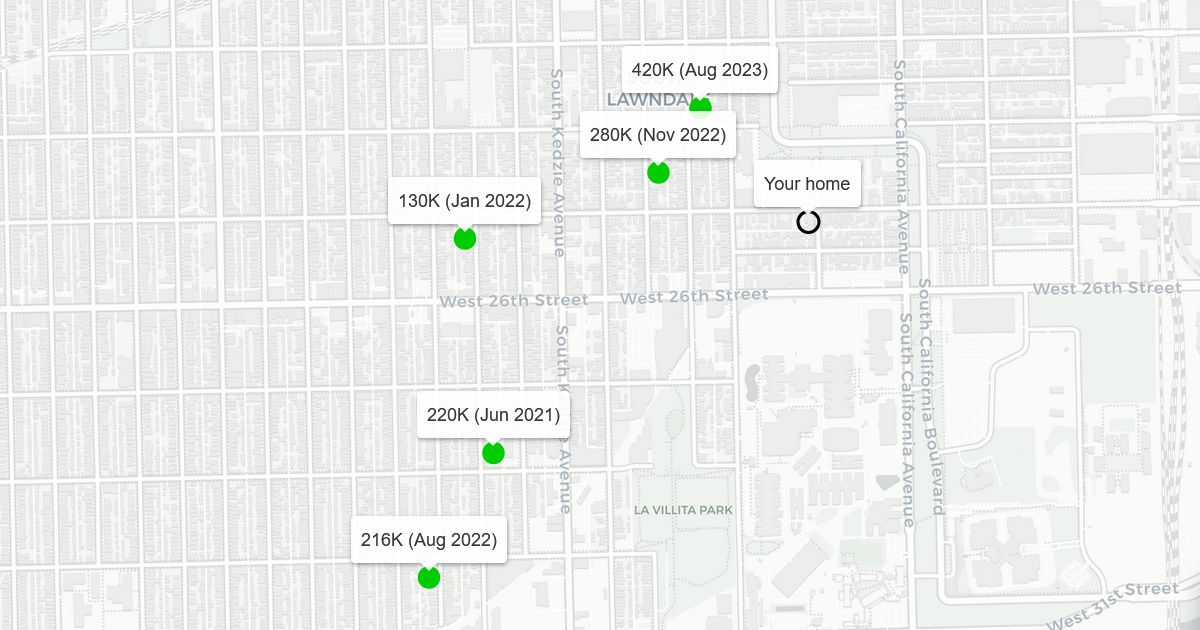
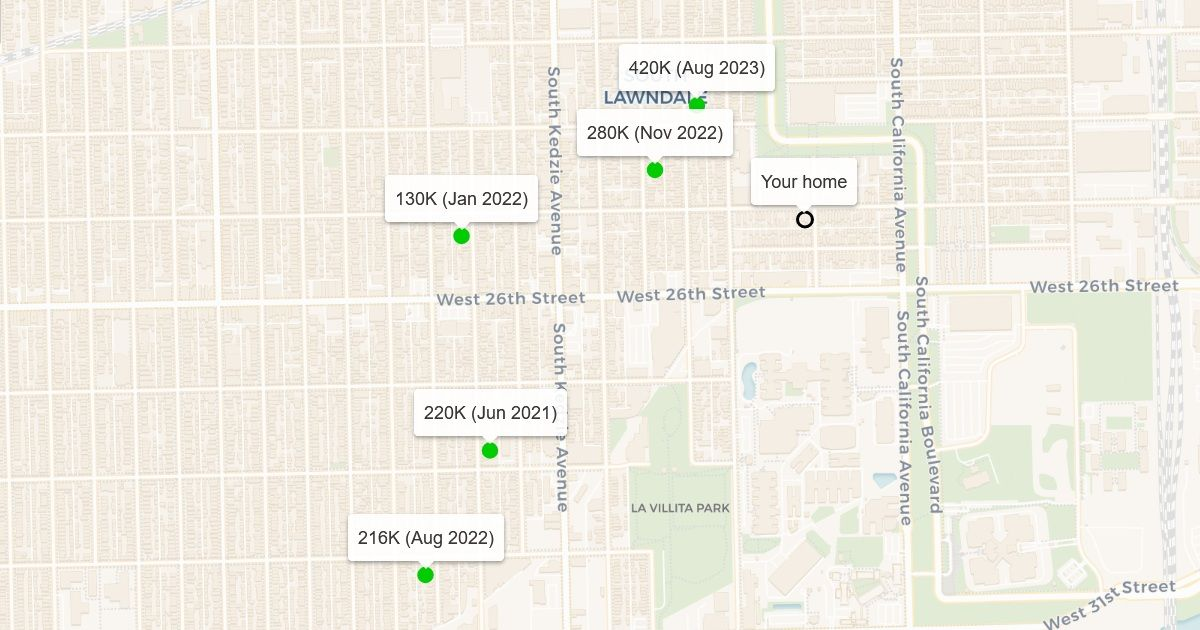
Small tweaks to link refs and basemap styles (#125)
This PR folds in a couple fixes for small bugs that we noticed while
testing prod reports:

- Changes the Carto basemap from Positron to Voyager for a more colorful
map that is closer to users' expectations of a typical web map
- Adds "Back to Search" buttons to error pages
- Changes link refs for the CCAO site to point to the new `.gov` domain

## Testing

I deployed all of the PINs that are listed in #116 to staging to confirm
that links and maps appear correctly in all possible versions of the
report. To test the error page, visit the root domain of the staging
site.

Changed region(s): [[0.0, 0.0, 1.0, 1.0], [0.9558, 0.7841, 0.9867, 0.8143], [0.6783, 0.7238, 0.7092, 0.754]]

diff --git a/hugo/layouts/report.html b/hugo/layouts/report.html
@@ -5,9 +5,6 @@
 
   {{ partial "head/css-link-bootstrap.html" . }}
 
-  <!-- Load Bootstrap icons -->
-  <link rel="stylesheet" href="/static/css/bootstrap-icons@1.13.1.min.css" />
-
   <!-- Load Leaflet CSS -->
   <link rel="stylesheet" href="/static/css/leaflet@1.9.4.css" />
 
@@ -37,18 +34,8 @@
   <div class="container">
 
     <div class="card-body">
-      <!-- Search again button that returns user to homepage -->
-      <p>
-        {{- /* Determine the search‑page URL based on environment */ -}}
-        {{
-          $search_href := cond (eq .Params.environment "prod")
-            "https://www.cookcountyassessoril.gov/model-value-report"
-            "https://stage.cookcountyassessoril.gov/model-value-report"
-        }}
-        <a href="{{ $search_href }}" class="text-decoration-none fw-semibold">
-          <i class="bi bi-arrow-left"></i> Back to Search
-        </a>
-      </p>
+
+      {{ partial "body/back-to-search.html" . }}
 
       <p>
         The goal of this report is to explain how the Cook County Assessor’s
@@ -329,7 +316,7 @@
           Assessor’s Office thoroughly review the model's estimates, neighborhood by neighborhood, and may
           change the property's estimated value and characteristics. To see your home's current assessment
           and characteristics, visit the
-          <a href="https://www.cookcountyassessor.com/pin/{{ .Params.pin }}" class="alert-link" target="_blank">Assessor's website</a>.
+          <a href="https://www.cookcountyassessoril.gov/pin/{{ .Params.pin }}" class="alert-link" target="_blank">Assessor's website</a>.
         </p>
       </div>
       <p>
@@ -558,13 +545,13 @@
           <td class="char-name">PIN</td>
           <td></td>
           <td>
-            <a href="https://www.cookcountyassessor.com/pin/{{ .Params.pin }}" target="_blank">
+            <a href="https://www.cookcountyassessoril.gov/pin/{{ .Params.pin }}" target="_blank">
               {{ .card.pin_pretty }}
             </a>
           </td>
           {{ range $comp := $.card.comps }}
             <td>
-              <a href="https://www.cookcountyassessor.com/pin/{{ $comp.pin }}" target="_blank">
+              <a href="https://www.cookcountyassessoril.gov/pin/{{ $comp.pin }}" target="_blank">
                 {{ $comp.pin_pretty }}
               </a>
             </td>
@@ -812,10 +799,11 @@
 
       // Add tile layer
       L.tileLayer(
-        "https://{s}.basemaps.cartocdn.com/light_all/{z}/{x}/{y}{r}.png",
+        "https://{s}.basemaps.cartocdn.com/rastertiles/voyager/{z}/{x}/{y}{r}.png",
         {
           attribution: '&copy; <a href="https://www.openstreetmap.org/copyright">OpenStreetMap</a> contributors &copy; <a href="https://carto.com/attributions">CARTO</a>',
-          maxZoom: 19
+          maxZoom: 19,
+          opacity: 0.9  // Dim the basemap slightly to make the dots pop
         }
       ).addTo(map);
 
@@ -870,7 +858,7 @@
         const subjectPopupContent = `
           <h5>${propertyLabel}</h5>
           <b>Address</b>: ${cardData.location.property_address}
-          <br><b>PIN</b>: <a href="https:\/\/www.cookcountyassessor.com/pin/${pin}" target="_blank">${pinPretty}</a>
+          <br><b>PIN</b>: <a href="https:\/\/www.cookcountyassessoril.gov/pin/${pin}" target="_blank">${pinPretty}</a>
           <br><b>Property class</b>: ${cardData.chars.char_class}
           <br><b>Assessor neighborhood</b>: ${cardData.location.meta_nbhd_code}
           <br><b>Year built</b>: ${cardData.chars.char_yrblt}
@@ -918,7 +906,7 @@
         const compPopupContent = `
           <h5>${comp.is_subject_pin_sale ? (cardData.is_multicard ? "Subject card" : "Subject property") : "Sale " + comp.comp_num}</h5>
           <b>Address</b>: ${comp.property_address}
-          <br><b>PIN</b>: <a href="https:\/\/www.cookcountyassessor.com/pin/${comp.pin}" target="_blank">${comp.pin_pretty}</a>
+          <br><b>PIN</b>: <a href="https:\/\/www.cookcountyassessoril.gov/pin/${comp.pin}" target="_blank">${comp.pin_pretty}</a>
           <br><b>Property class</b>: ${comp.char_class}
           <br><b>Assessor neighborhood</b>: ${comp.meta_nbhd_code}
           <br><b>Sale price</b>: ${comp.sale_price}

diff --git a/hugo/layouts/ineligible.html b/hugo/layouts/ineligible.html
@@ -14,6 +14,9 @@
 
     <div class="container">
       <div class="card-body">
+
+        {{ partial "body/back-to-search.html" . }}
+
         <h3>Report not available</h3>
         <br>
         {{ if eq .Params.reason_report_ineligible "condo" }}
@@ -63,7 +66,7 @@
         {{ end }}
         <p>
           If you believe that this information is incorrect, please
-          <a href="https://www.cookcountyassessor.com/contact" target="_blank">contact us</a>
+          <a href="https://www.cookcountyassessoril.gov/contact" target="_blank">contact us</a>
           and we will do our best to correct the mistake.
         </p>
       </div>

diff --git a/hugo/layouts/_partials/body/back-to-search.html b/hugo/layouts/_partials/body/back-to-search.html
@@ -1,0 +1,12 @@
+{{- /* Button that returns user to homepage */ -}}
+<p>
+  {{- /* Determine the search‑page URL based on environment */ -}}
+  {{-
+    $search_href := cond (eq .Params.environment "prod")
+      "https://www.cookcountyassessoril.gov/home-value-report"
+      "https://stage.cookcountyassessoril.gov/model-value-report"
+  -}}
+  <a href="{{ $search_href }}" class="text-decoration-none fw-semibold">
+    <i class="bi bi-arrow-left"></i> Back to Search
+  </a>
+</p>

diff --git a/hugo/layouts/_partials/banner/banner.html b/hugo/layouts/_partials/banner/banner.html
@@ -7,7 +7,7 @@
         <b>
           {{ if .Params.pin }}
           Property Index Number (PIN):
-          <a href="https://www.cookcountyassessor.com/pin/{{ .Params.pin }}" target="_blank">
+          <a href="https://www.cookcountyassessoril.gov/pin/{{ .Params.pin }}" target="_blank">
             {{ .Params.pin_pretty }}
           </a>
           {{ end }}

diff --git a/hugo/layouts/_partials/head/css-link-bootstrap.html b/hugo/layouts/_partials/head/css-link-bootstrap.html
@@ -1,2 +1,5 @@
 <!-- Load Bootstrap CSS -->
 <link href="/static/css/bootstrap@5.3.7.min.css" rel="stylesheet" />
+
+<!-- Load Bootstrap icons -->
+<link href="/static/css/bootstrap-icons@1.13.1.min.css" rel="stylesheet" />

diff --git a/hugo/layouts/_partials/head/styles.html b/hugo/layouts/_partials/head/styles.html
@@ -84,4 +84,8 @@
     -webkit-text-decoration: underline dotted #294298;
     cursor: pointer;
   }
+
+  .leaflet-attribution-flag {
+    display: none !important;
+  }
 </style>

diff --git a/hugo/layouts/single.html b/hugo/layouts/single.html
@@ -14,6 +14,7 @@
 
   <div class="container">
     <div class="card-body">
+      {{ partial "body/back-to-search.html" . }}
       {{ .Content }}
     </div>
   </div>

diff --git a/hugo/content/error.md b/hugo/content/error.md
@@ -2,15 +2,25 @@
 layout: single
 title: "Page not found"
 url: "/static/404.html"
+# We don't have a way of setting this `environment` attribute in the
+# report generation script, which is how we set it for the reports. That
+# means we can't dynamically adjust this attribute depending on the deploy
+# environment. While in the future we might want to implement the ability to
+# do that, for now the only consequence of this attribute being hardcoded to
+# prod is that the link ref for the "back to search" button always points to
+# the prod web form. That's not a huge deal, so for the sake of simplicity, we
+# use a hardcoded `environment` for now
+environment: prod
 ---
 
 This page does not exist. Usually this means you requested a report for
 an invalid Property Index Number (PIN), or you requested a report for
 a year that we don't support.
 
-Please navigate back to the web form, double-check the form information, and try
-again. We apologize for the inconvenience!
+Please navigate back to [the web
+form](https://www.cookcountyassessoril.gov/model-value-report), double-check
+the form information, and try again. We apologize for the inconvenience!
 
 If you believe this page should exist, please [contact
-us](https://www.cookcountyassessor.com/contact)
+us](https://www.cookcountyassessoril.gov/contact)
 and we will do our best to correct the mistake.
